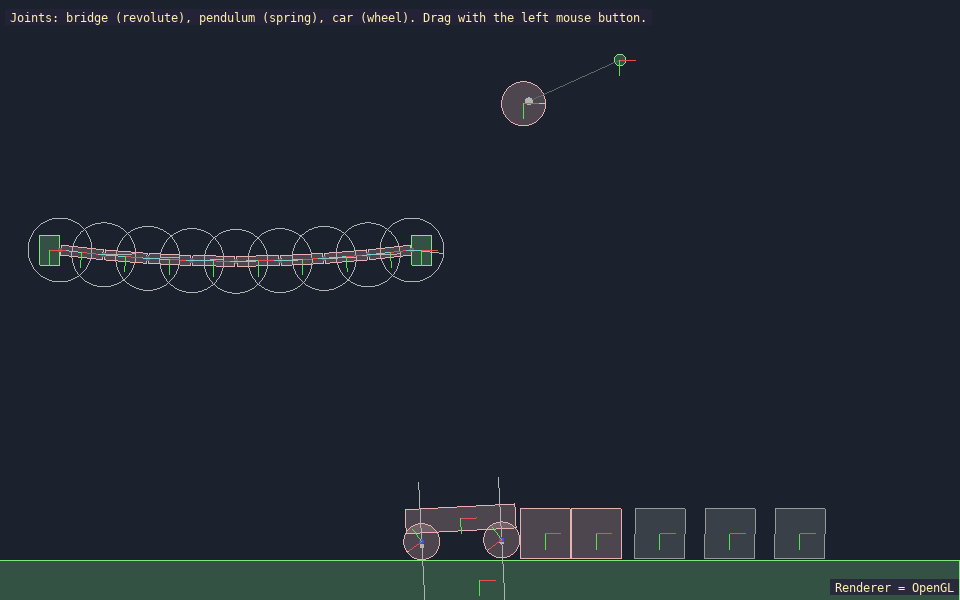
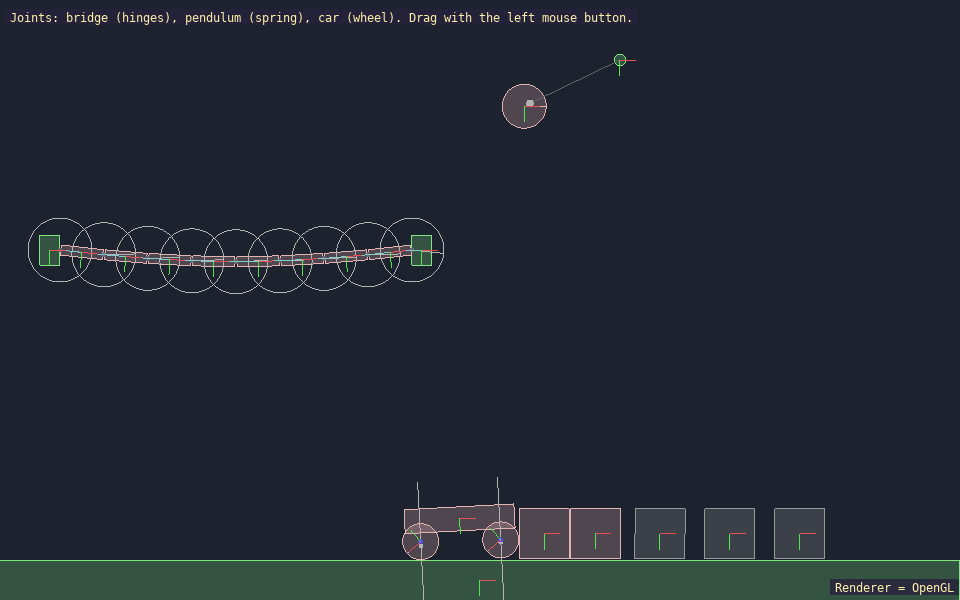
exjoints label  improvements.

diff --git a/src/examples/exjoints/exjoints.cpp b/src/examples/exjoints/exjoints.cpp
@@ -103,7 +103,7 @@ int main(int argc, char *argv[])
         sl::PhysicsDebugDraw options;
         options.centers_of_mass = true;
         sl::debug_draw_physics(world, options);
-        sl::gprintf(10, 10, {255, 240, 170}, "Joints: bridge (revolute), pendulum (spring), car (wheel). Drag with the left mouse button.");
+        sl::gprintf(10, 10, {255, 240, 170}, "Joints: bridge (hinges), pendulum (spring), car (wheel). Drag with the left mouse button.");
         sl::draw_renderer_label();
         sl::show_video_bitmap();
         sl::end_frame();

diff --git a/docs/examples/exjoints.md b/docs/examples/exjoints.md
@@ -1,18 +1,18 @@
 # exjoints
 
-Physics joints: a revolute bridge, a spring pendulum and a wheel-jointed car, all draggable with the mouse.
+Physics joints: a bridge of hinged planks (revolute joints), a spring pendulum and a wheel-jointed car, all draggable with the mouse.
 
 ![exjoints screenshot](img/exjoints.png)
 
 ## What it shows
-- Revolute, distance (spring) and wheel joints
+- Revolute (hinge), distance (spring) and wheel joints
 - Motor control with `set_joint_motor`
 - Mouse dragging with `create_mouse_joint` and `physics_query_point`
 - Debug drawing with `debug_draw_physics`
 
 ## Key code
 
-In `exjoints.cpp`, revolute joints connect the bridge planks end to end.
+In `exjoints.cpp`, revolute joints (hinges that let two bodies rotate about a shared point) connect the bridge planks end to end.
 ```cpp
     const int planks = 8;
     const float plank_width = 44.0f, bridge_y = 250.0f, bridge_x = 60.0f;
